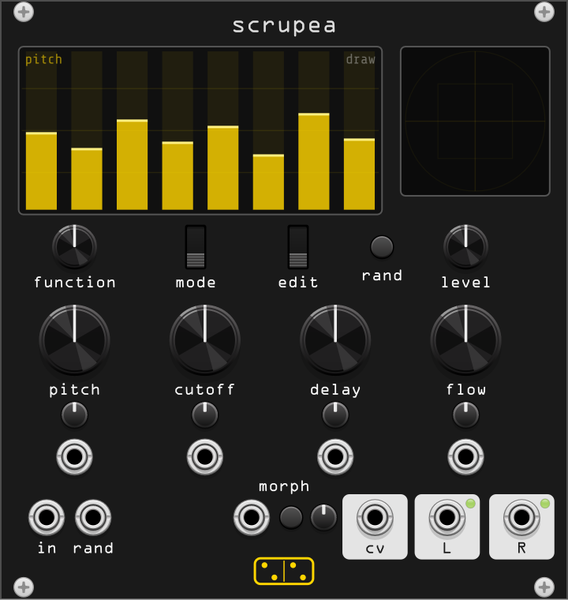
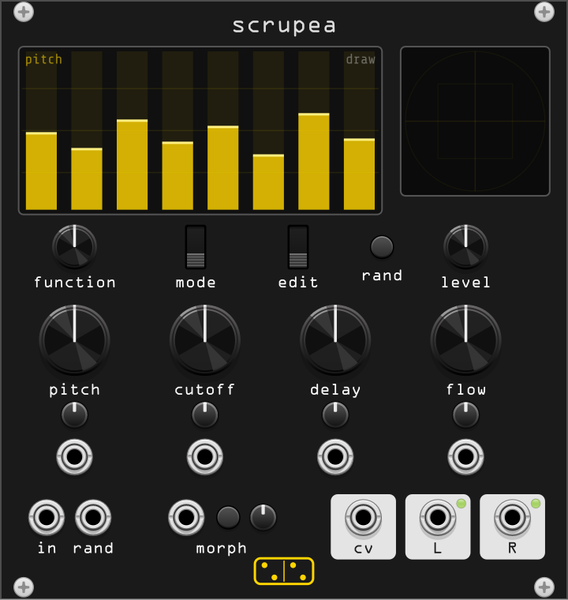
fix(scrupea): the morph trio sits in the gap, with its label underneath
Centred between rand and the cv badge rather than on the panel midline, at
40 / 49 / 56.5, and the outputs go back to 78 / 94 / 110. Moving it out of the
middle also moves it clear of the logo, so the label goes back under the
controls at 118.50 with the rest of the row.

Changed region(s): [[0.2993, 0.78, 0.9877, 0.93]]

diff --git a/src/scrupea.cpp b/src/scrupea.cpp
@@ -918,17 +918,17 @@ struct ScrupeaWidget : ModuleWidget {
 // @elem FLOW_CV_INPUT PJ301MPort 4.01 input "" 0.0 100.00 98.00
 // @elem AUDIO_INPUT PJ301MPort 4.01 input "" 0.0 10.00 111.00
 // @elem RAND_INPUT PJ301MPort 4.01 input "" 0.0 20.00 111.00
-// @elem MORPH_INPUT PJ301MPort 4.01 input "" 0.0 54.00 111.00
-// @elem MORPH_PARAM TL1105 2.6 param "" 0.0 62.50 111.00
-// @elem MORPH_TIME_PARAM Trimpot 2.5 param "" 0.0 69.50 111.00
-// @elem CV_OUTPUT PJ301MPort 4.01 output "" 0.0 80.50 111.00
-// @elem LEFT_OUTPUT PJ301MPort 4.01 output "" 0.0 96.00 111.00
-// @elem RIGHT_OUTPUT PJ301MPort 4.01 output "" 0.0 112.00 111.00
-// @elem LEFT_LIGHT SmallLight 1.0 light "" 0.0 101.00 108.00
-// @elem RIGHT_LIGHT SmallLight 1.0 light "" 0.0 117.00 108.00
-// @elem BOX_CV panel_box 7.0 box "" 0.0 80.50 113.00
-// @elem BOX_LEFT panel_box 7.0 box "" 0.0 96.00 113.00
-// @elem BOX_RIGHT panel_box 7.0 box "" 0.0 112.00 113.00
+// @elem MORPH_INPUT PJ301MPort 4.01 input "" 0.0 40.00 111.00
+// @elem MORPH_PARAM TL1105 2.6 param "" 0.0 49.00 111.00
+// @elem MORPH_TIME_PARAM Trimpot 2.5 param "" 0.0 56.50 111.00
+// @elem CV_OUTPUT PJ301MPort 4.01 output "" 0.0 78.00 111.00
+// @elem LEFT_OUTPUT PJ301MPort 4.01 output "" 0.0 94.00 111.00
+// @elem RIGHT_OUTPUT PJ301MPort 4.01 output "" 0.0 110.00 111.00
+// @elem LEFT_LIGHT SmallLight 1.0 light "" 0.0 99.00 108.00
+// @elem RIGHT_LIGHT SmallLight 1.0 light "" 0.0 115.00 108.00
+// @elem BOX_CV panel_box 7.0 box "" 0.0 78.00 113.00
+// @elem BOX_LEFT panel_box 7.0 box "" 0.0 94.00 113.00
+// @elem BOX_RIGHT panel_box 7.0 box "" 0.0 110.00 113.00
 // @elem LABEL_FUNC label 0.0 label "function" 0.0 16.00 61.50
 // @elem LABEL_MODE label 0.0 label "mode" 0.0 42.00 61.50
 // @elem LABEL_EDIT label 0.0 label "edit" 0.0 64.00 61.50
@@ -940,10 +940,10 @@ struct ScrupeaWidget : ModuleWidget {
 // @elem LABEL_FLOW label 0.0 label "flow" 0.0 100.00 84.50
 // @elem LABEL_AUDIO label 0.0 label "in" 0.0 10.00 118.50
 // @elem LABEL_RAND_INPUT label 0.0 label "rand" 0.0 20.00 118.50
-// @elem LABEL_MORPH_PARAM label 0.0 label "morph" 0.0 60.96 105.20
-// @elem LABEL_CV label 0.0 label "cv" 0.0 80.50 118.50
-// @elem LABEL_LEFT label 0.0 label "L" 0.0 96.00 118.50
-// @elem LABEL_RIGHT label 0.0 label "R" 0.0 112.00 118.50
+// @elem LABEL_MORPH_PARAM label 0.0 label "morph" 0.0 47.50 118.50
+// @elem LABEL_CV label 0.0 label "cv" 0.0 78.00 118.50
+// @elem LABEL_LEFT label 0.0 label "L" 0.0 94.00 118.50
+// @elem LABEL_RIGHT label 0.0 label "R" 0.0 110.00 118.50
 // @elem LOGO forsitan_logo 0.0 logo "" 0.0 60.96 122.50
 
         addChild(createWidget<ScrewSilver>(mm2px(Vec(2.54f, 0.00f)))); // SCREW_TL
@@ -969,14 +969,14 @@ struct ScrupeaWidget : ModuleWidget {
         addInput(createInputCentered<PJ301MPort>(mm2px(Vec(100.00f, 98.00f)), module, Scrupea::FLOW_CV_INPUT));
         addInput(createInputCentered<PJ301MPort>(mm2px(Vec(10.00f, 111.00f)), module, Scrupea::AUDIO_INPUT));
         addInput(createInputCentered<PJ301MPort>(mm2px(Vec(20.00f, 111.00f)), module, Scrupea::RAND_INPUT));
-        addInput(createInputCentered<PJ301MPort>(mm2px(Vec(54.00f, 111.00f)), module, Scrupea::MORPH_INPUT));
-        addParam(createParamCentered<TL1105>(mm2px(Vec(62.50f, 111.00f)), module, Scrupea::MORPH_PARAM));
-        addParam(createParamCentered<Trimpot>(mm2px(Vec(69.50f, 111.00f)), module, Scrupea::MORPH_TIME_PARAM));
-        addOutput(createOutputCentered<PJ301MPort>(mm2px(Vec(80.50f, 111.00f)), module, Scrupea::CV_OUTPUT));
-        addOutput(createOutputCentered<PJ301MPort>(mm2px(Vec(96.00f, 111.00f)), module, Scrupea::LEFT_OUTPUT));
-        addOutput(createOutputCentered<PJ301MPort>(mm2px(Vec(112.00f, 111.00f)), module, Scrupea::RIGHT_OUTPUT));
-        addChild(createLightCentered<SmallLight<GreenLight>>(mm2px(Vec(101.00f, 108.00f)), module, Scrupea::LEFT_LIGHT));
-        addChild(createLightCentered<SmallLight<GreenLight>>(mm2px(Vec(117.00f, 108.00f)), module, Scrupea::RIGHT_LIGHT));
+        addInput(createInputCentered<PJ301MPort>(mm2px(Vec(40.00f, 111.00f)), module, Scrupea::MORPH_INPUT));
+        addParam(createParamCentered<TL1105>(mm2px(Vec(49.00f, 111.00f)), module, Scrupea::MORPH_PARAM));
+        addParam(createParamCentered<Trimpot>(mm2px(Vec(56.50f, 111.00f)), module, Scrupea::MORPH_TIME_PARAM));
+        addOutput(createOutputCentered<PJ301MPort>(mm2px(Vec(78.00f, 111.00f)), module, Scrupea::CV_OUTPUT));
+        addOutput(createOutputCentered<PJ301MPort>(mm2px(Vec(94.00f, 111.00f)), module, Scrupea::LEFT_OUTPUT));
+        addOutput(createOutputCentered<PJ301MPort>(mm2px(Vec(110.00f, 111.00f)), module, Scrupea::RIGHT_OUTPUT));
+        addChild(createLightCentered<SmallLight<GreenLight>>(mm2px(Vec(99.00f, 108.00f)), module, Scrupea::LEFT_LIGHT));
+        addChild(createLightCentered<SmallLight<GreenLight>>(mm2px(Vec(115.00f, 108.00f)), module, Scrupea::RIGHT_LIGHT));
         // @layout:end
     }
 

diff --git a/doc/scrupea.md b/doc/scrupea.md
@@ -294,8 +294,8 @@ that were chaotic and a large number for one that was diverging.
 
 ## morph
 
-Centred in the bottom row, three controls that belong together: a **gate**
-input, the **morph** button, and a small **time** trimpot. While the gate is
+In the bottom row, sitting together in the gap between **rand** and the
+outputs: a **gate** input, the **morph** button, and a small **time** trimpot. While the gate is
 high or the button held, all sixty-four bars set off towards destinations of
 their own — the same motion a **rand** drag makes, but driven by a gate and at
 a time you choose rather than by the speed of your hand.
